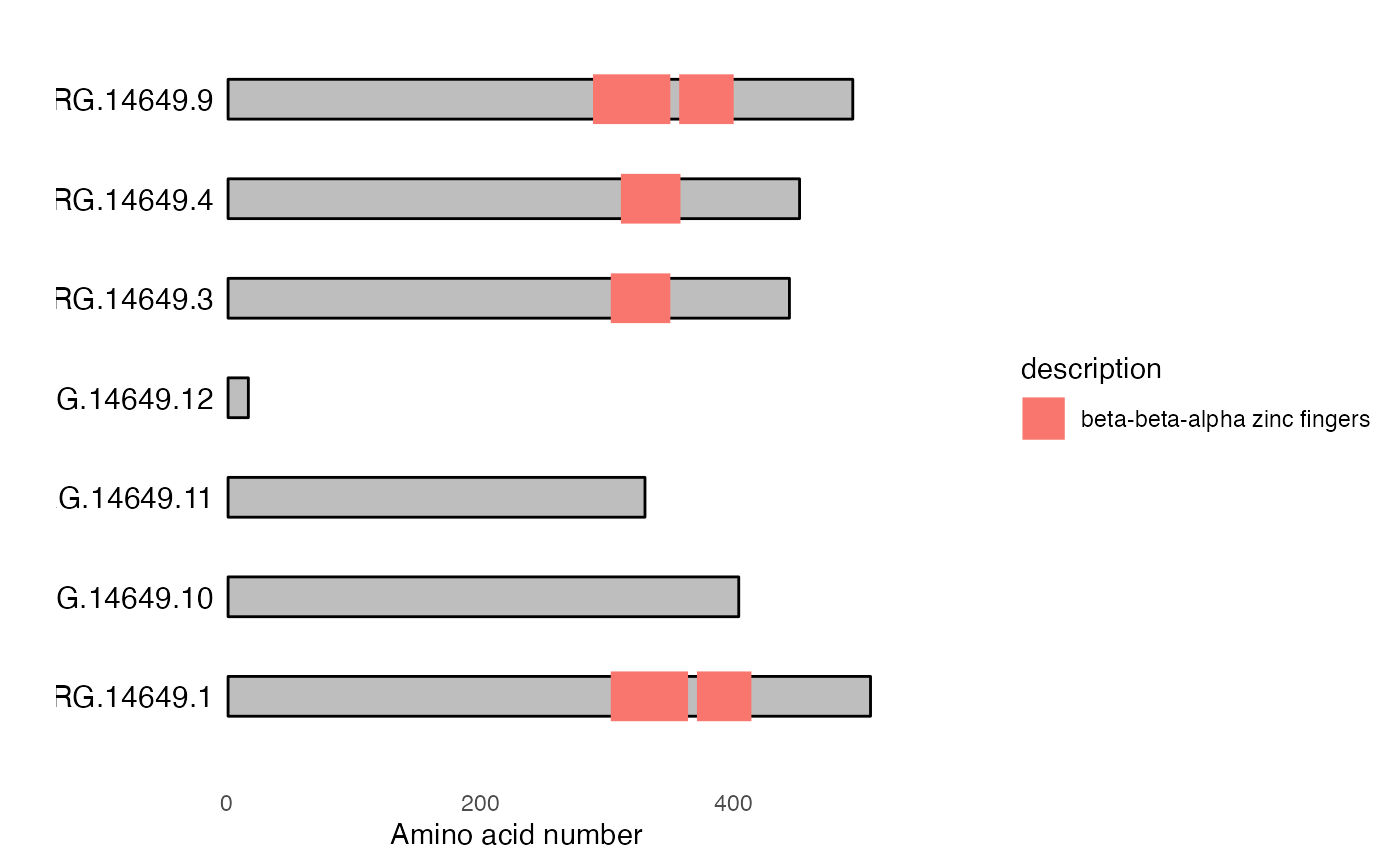
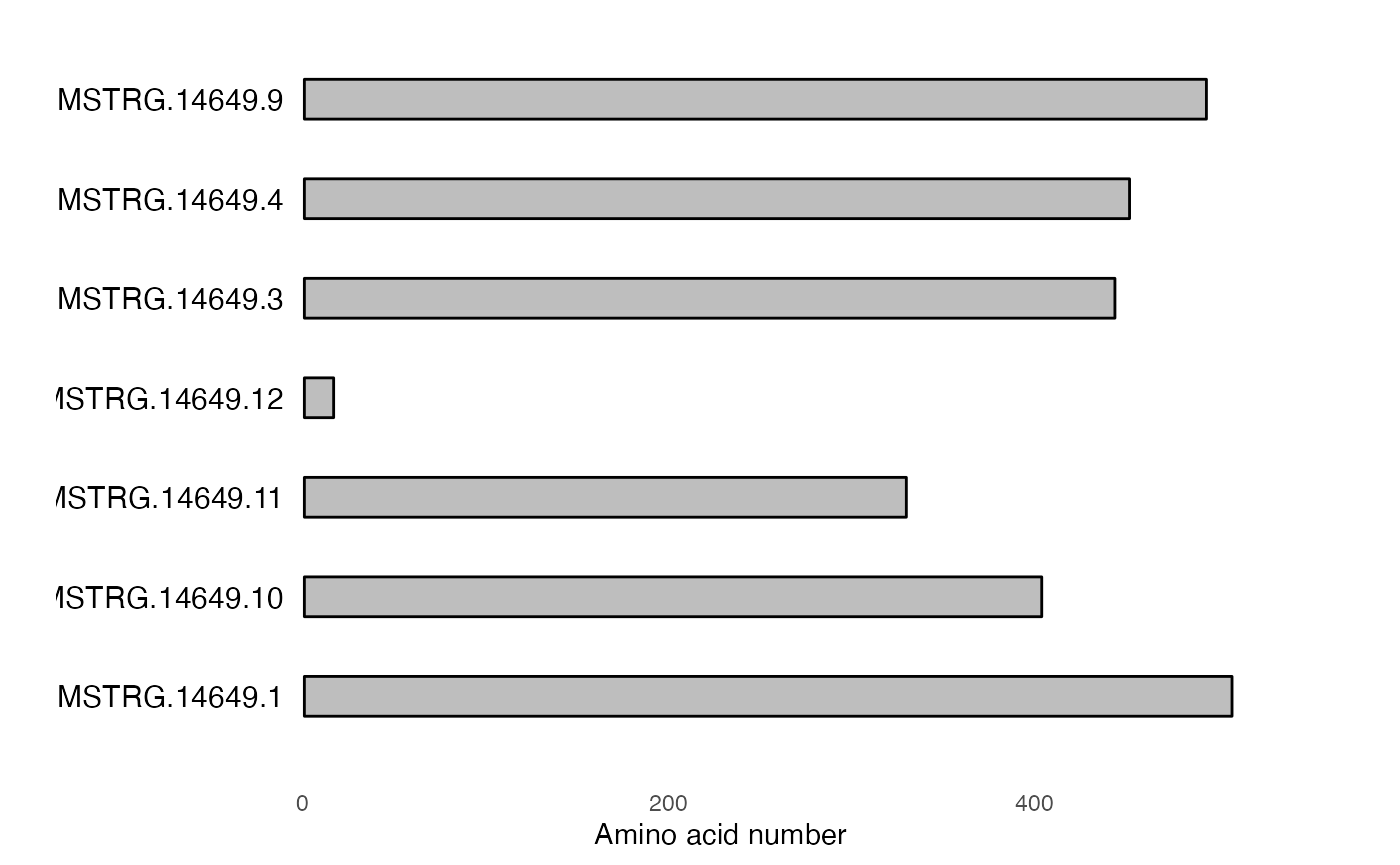
Built site for factR: 0.99.5@73e6b08

diff --git a/reference/predictDomains.html b/reference/predictDomains.html
@@ -96,7 +96,7 @@ progress of predicting a long list of proteins.</p></dd>
 <span class="r-in"><span class="fu">predictDomains</span><span class="op">(</span><span class="va">new_query_gtf</span>, <span class="va">Mmusculus</span><span class="op">)</span></span>
 <span class="r-msg co"><span class="r-pr">#&gt;</span> Checking CDSs and translating protein sequences</span>
 <span class="r-msg co"><span class="r-pr">#&gt;</span> Predicting domain families for 4 proteins</span>
-<span class="r-out co"><span class="r-pr">#&gt;</span> <span style="color: #949494;"># A tibble: 14 × 5</span></span>
+<span class="r-out co"><span class="r-pr">#&gt;</span> <span style="color: #949494;"># A tibble: 10 × 5</span></span>
 <span class="r-out co"><span class="r-pr">#&gt;</span>    transcript  description             eval     begin   end</span>
 <span class="r-out co"><span class="r-pr">#&gt;</span>    <span style="color: #949494; font-style: italic;">&lt;chr&gt;</span>       <span style="color: #949494; font-style: italic;">&lt;chr&gt;</span>                   <span style="color: #949494; font-style: italic;">&lt;chr&gt;</span>    <span style="color: #949494; font-style: italic;">&lt;dbl&gt;</span> <span style="color: #949494; font-style: italic;">&lt;dbl&gt;</span></span>
 <span class="r-out co"><span class="r-pr">#&gt;</span> <span style="color: #BCBCBC;"> 1</span> transcript1 RNA-binding domain, RBD 1.54e-20    46   143</span>
@@ -109,55 +109,19 @@ progress of predicting a long list of proteins.</p></dd>
 <span class="r-out co"><span class="r-pr">#&gt;</span> <span style="color: #BCBCBC;"> 8</span> transcript2 RNA-binding domain, RBD 1.54e-20   443   527</span>
 <span class="r-out co"><span class="r-pr">#&gt;</span> <span style="color: #BCBCBC;"> 9</span> transcript3 RNA-binding domain, RBD 1.54e-20    46   143</span>
 <span class="r-out co"><span class="r-pr">#&gt;</span> <span style="color: #BCBCBC;">10</span> transcript3 RNA-binding domain, RBD 1.54e-20   177   281</span>
-<span class="r-out co"><span class="r-pr">#&gt;</span> <span style="color: #BCBCBC;">11</span> transcript4 RNA-binding domain, RBD 1.54e-20   291   380</span>
-<span class="r-out co"><span class="r-pr">#&gt;</span> <span style="color: #BCBCBC;">12</span> transcript4 RNA-binding domain, RBD 1.54e-20   137   241</span>
-<span class="r-out co"><span class="r-pr">#&gt;</span> <span style="color: #BCBCBC;">13</span> transcript4 RNA-binding domain, RBD 1.54e-20    39    95</span>
-<span class="r-out co"><span class="r-pr">#&gt;</span> <span style="color: #BCBCBC;">14</span> transcript4 RNA-binding domain, RBD 1.54e-20   403   487</span>
 <span class="r-in"></span>
 <span class="r-in"><span class="co"># predict domains of CDSs from Ptbp1 gene</span></span>
 <span class="r-in"><span class="fu">predictDomains</span><span class="op">(</span><span class="va">new_query_gtf</span>, <span class="va">Mmusculus</span>, <span class="va">gene_name</span> <span class="op">==</span> <span class="st">"Ptbp1"</span><span class="op">)</span></span>
 <span class="r-msg co"><span class="r-pr">#&gt;</span> Checking CDSs and translating protein sequences</span>
 <span class="r-msg co"><span class="r-pr">#&gt;</span> Predicting domain families for 4 proteins</span>
-<span class="r-out co"><span class="r-pr">#&gt;</span> <span style="color: #949494;"># A tibble: 14 × 5</span></span>
-<span class="r-out co"><span class="r-pr">#&gt;</span>    transcript  description             eval     begin   end</span>
-<span class="r-out co"><span class="r-pr">#&gt;</span>    <span style="color: #949494; font-style: italic;">&lt;chr&gt;</span>       <span style="color: #949494; font-style: italic;">&lt;chr&gt;</span>                   <span style="color: #949494; font-style: italic;">&lt;chr&gt;</span>    <span style="color: #949494; font-style: italic;">&lt;dbl&gt;</span> <span style="color: #949494; font-style: italic;">&lt;dbl&gt;</span></span>
-<span class="r-out co"><span class="r-pr">#&gt;</span> <span style="color: #BCBCBC;"> 1</span> transcript1 RNA-binding domain, RBD 1.54e-20    46   143</span>
-<span class="r-out co"><span class="r-pr">#&gt;</span> <span style="color: #BCBCBC;"> 2</span> transcript1 RNA-binding domain, RBD 1.54e-20   357   446</span>
-<span class="r-out co"><span class="r-pr">#&gt;</span> <span style="color: #BCBCBC;"> 3</span> transcript1 RNA-binding domain, RBD 1.54e-20   177   281</span>
-<span class="r-out co"><span class="r-pr">#&gt;</span> <span style="color: #BCBCBC;"> 4</span> transcript1 RNA-binding domain, RBD 1.54e-20   469   553</span>
-<span class="r-out co"><span class="r-pr">#&gt;</span> <span style="color: #BCBCBC;"> 5</span> transcript2 RNA-binding domain, RBD 1.54e-20    46   143</span>
-<span class="r-out co"><span class="r-pr">#&gt;</span> <span style="color: #BCBCBC;"> 6</span> transcript2 RNA-binding domain, RBD 1.54e-20   331   420</span>
-<span class="r-out co"><span class="r-pr">#&gt;</span> <span style="color: #BCBCBC;"> 7</span> transcript2 RNA-binding domain, RBD 1.54e-20   177   281</span>
-<span class="r-out co"><span class="r-pr">#&gt;</span> <span style="color: #BCBCBC;"> 8</span> transcript2 RNA-binding domain, RBD 1.54e-20   443   527</span>
-<span class="r-out co"><span class="r-pr">#&gt;</span> <span style="color: #BCBCBC;"> 9</span> transcript3 RNA-binding domain, RBD 1.54e-20    46   143</span>
-<span class="r-out co"><span class="r-pr">#&gt;</span> <span style="color: #BCBCBC;">10</span> transcript3 RNA-binding domain, RBD 1.54e-20   177   281</span>
-<span class="r-out co"><span class="r-pr">#&gt;</span> <span style="color: #BCBCBC;">11</span> transcript4 RNA-binding domain, RBD 1.54e-20   291   380</span>
-<span class="r-out co"><span class="r-pr">#&gt;</span> <span style="color: #BCBCBC;">12</span> transcript4 RNA-binding domain, RBD 1.54e-20   137   241</span>
-<span class="r-out co"><span class="r-pr">#&gt;</span> <span style="color: #BCBCBC;">13</span> transcript4 RNA-binding domain, RBD 1.54e-20    39    95</span>
-<span class="r-out co"><span class="r-pr">#&gt;</span> <span style="color: #BCBCBC;">14</span> transcript4 RNA-binding domain, RBD 1.54e-20   403   487</span>
+<span class="r-out co"><span class="r-pr">#&gt;</span> NULL</span>
 <span class="r-in"></span>
 <span class="r-in"><span class="co"># predict domains of CDSs from Ptbp1 gene and plot architecture out</span></span>
 <span class="r-in"><span class="fu">predictDomains</span><span class="op">(</span><span class="va">new_query_gtf</span>, <span class="va">Mmusculus</span>, <span class="va">gene_name</span> <span class="op">==</span> <span class="st">"Ptbp1"</span>, plot <span class="op">=</span> <span class="cn">TRUE</span><span class="op">)</span></span>
 <span class="r-msg co"><span class="r-pr">#&gt;</span> Checking CDSs and translating protein sequences</span>
 <span class="r-msg co"><span class="r-pr">#&gt;</span> Predicting domain families for 4 proteins</span>
 <span class="r-plt img"><img src="predictDomains-1.png" alt="" width="700" height="433"></span>
-<span class="r-out co"><span class="r-pr">#&gt;</span> <span style="color: #949494;"># A tibble: 14 × 5</span></span>
-<span class="r-out co"><span class="r-pr">#&gt;</span>    transcript  description             eval     begin   end</span>
-<span class="r-out co"><span class="r-pr">#&gt;</span>    <span style="color: #949494; font-style: italic;">&lt;chr&gt;</span>       <span style="color: #949494; font-style: italic;">&lt;chr&gt;</span>                   <span style="color: #949494; font-style: italic;">&lt;chr&gt;</span>    <span style="color: #949494; font-style: italic;">&lt;dbl&gt;</span> <span style="color: #949494; font-style: italic;">&lt;dbl&gt;</span></span>
-<span class="r-out co"><span class="r-pr">#&gt;</span> <span style="color: #BCBCBC;"> 1</span> transcript1 RNA-binding domain, RBD 1.54e-20    46   143</span>
-<span class="r-out co"><span class="r-pr">#&gt;</span> <span style="color: #BCBCBC;"> 2</span> transcript1 RNA-binding domain, RBD 1.54e-20   357   446</span>
-<span class="r-out co"><span class="r-pr">#&gt;</span> <span style="color: #BCBCBC;"> 3</span> transcript1 RNA-binding domain, RBD 1.54e-20   177   281</span>
-<span class="r-out co"><span class="r-pr">#&gt;</span> <span style="color: #BCBCBC;"> 4</span> transcript1 RNA-binding domain, RBD 1.54e-20   469   553</span>
-<span class="r-out co"><span class="r-pr">#&gt;</span> <span style="color: #BCBCBC;"> 5</span> transcript2 RNA-binding domain, RBD 1.54e-20    46   143</span>
-<span class="r-out co"><span class="r-pr">#&gt;</span> <span style="color: #BCBCBC;"> 6</span> transcript2 RNA-binding domain, RBD 1.54e-20   331   420</span>
-<span class="r-out co"><span class="r-pr">#&gt;</span> <span style="color: #BCBCBC;"> 7</span> transcript2 RNA-binding domain, RBD 1.54e-20   177   281</span>
-<span class="r-out co"><span class="r-pr">#&gt;</span> <span style="color: #BCBCBC;"> 8</span> transcript2 RNA-binding domain, RBD 1.54e-20   443   527</span>
-<span class="r-out co"><span class="r-pr">#&gt;</span> <span style="color: #BCBCBC;"> 9</span> transcript3 RNA-binding domain, RBD 1.54e-20    46   143</span>
-<span class="r-out co"><span class="r-pr">#&gt;</span> <span style="color: #BCBCBC;">10</span> transcript3 RNA-binding domain, RBD 1.54e-20   177   281</span>
-<span class="r-out co"><span class="r-pr">#&gt;</span> <span style="color: #BCBCBC;">11</span> transcript4 RNA-binding domain, RBD 1.54e-20   291   380</span>
-<span class="r-out co"><span class="r-pr">#&gt;</span> <span style="color: #BCBCBC;">12</span> transcript4 RNA-binding domain, RBD 1.54e-20   137   241</span>
-<span class="r-out co"><span class="r-pr">#&gt;</span> <span style="color: #BCBCBC;">13</span> transcript4 RNA-binding domain, RBD 1.54e-20    39    95</span>
-<span class="r-out co"><span class="r-pr">#&gt;</span> <span style="color: #BCBCBC;">14</span> transcript4 RNA-binding domain, RBD 1.54e-20   403   487</span>
+<span class="r-out co"><span class="r-pr">#&gt;</span> NULL</span>
 </code></pre></div>
     </div>
   </div>

diff --git a/articles/factR.html b/articles/factR.html
@@ -415,15 +415,7 @@ Users may alternatively prepare their own GTF files making sure that these conta
 <code class="sourceCode R"><span class="fu"><a href="../reference/predictDomains.html">predictDomains</a></span><span class="op">(</span><span class="va">custom_new_CDS.gtf</span>, <span class="va">Mmusculus</span>, <span class="va">gene_name</span> <span class="op">==</span> <span class="st">"Zfr"</span>, progress_bar <span class="op">=</span> <span class="cn">FALSE</span><span class="op">)</span>  
 <span class="co">#&gt; Checking CDSs and translating protein sequences</span>
 <span class="co">#&gt; Predicting domain families for 7 proteins</span>
-<span class="co">#&gt; <span style="color: #949494;"># A tibble: 6 × 5</span></span>
-<span class="co">#&gt;   transcript    description                  eval     begin   end</span>
-<span class="co">#&gt;   <span style="color: #949494; font-style: italic;">&lt;chr&gt;</span>         <span style="color: #949494; font-style: italic;">&lt;chr&gt;</span>                        <span style="color: #949494; font-style: italic;">&lt;chr&gt;</span>    <span style="color: #949494; font-style: italic;">&lt;dbl&gt;</span> <span style="color: #949494; font-style: italic;">&lt;dbl&gt;</span></span>
-<span class="co">#&gt; <span style="color: #BCBCBC;">1</span> MSTRG.14649.1 beta-beta-alpha zinc fingers 1.54e-20   303   364</span>
-<span class="co">#&gt; <span style="color: #BCBCBC;">2</span> MSTRG.14649.1 beta-beta-alpha zinc fingers 1.54e-20   371   414</span>
-<span class="co">#&gt; <span style="color: #BCBCBC;">3</span> MSTRG.14649.3 beta-beta-alpha zinc fingers 1.54e-20   303   350</span>
-<span class="co">#&gt; <span style="color: #BCBCBC;">4</span> MSTRG.14649.4 beta-beta-alpha zinc fingers 1.54e-20   311   358</span>
-<span class="co">#&gt; <span style="color: #BCBCBC;">5</span> MSTRG.14649.9 beta-beta-alpha zinc fingers 1.54e-20   289   350</span>
-<span class="co">#&gt; <span style="color: #BCBCBC;">6</span> MSTRG.14649.9 beta-beta-alpha zinc fingers 1.54e-20   357   400</span></code></pre></div>
+<span class="co">#&gt; NULL</span></code></pre></div>
 <p>The domain architectures for the set of query proteins can be additionally plotted by switching the argument “plot” to TRUE:</p>
 <div class="sourceCode" id="cb28"><pre class="downlit sourceCode r">
 <code class="sourceCode R"><span class="va">domains.Zfr</span> <span class="op">&lt;-</span> <span class="fu"><a href="../reference/predictDomains.html">predictDomains</a></span><span class="op">(</span><span class="va">custom_new_CDS.gtf</span>, <span class="va">Mmusculus</span>, <span class="va">gene_name</span> <span class="op">==</span> <span class="st">"Zfr"</span>, plot <span class="op">=</span> <span class="cn">TRUE</span>, progress_bar <span class="op">=</span> <span class="cn">FALSE</span><span class="op">)</span>  
